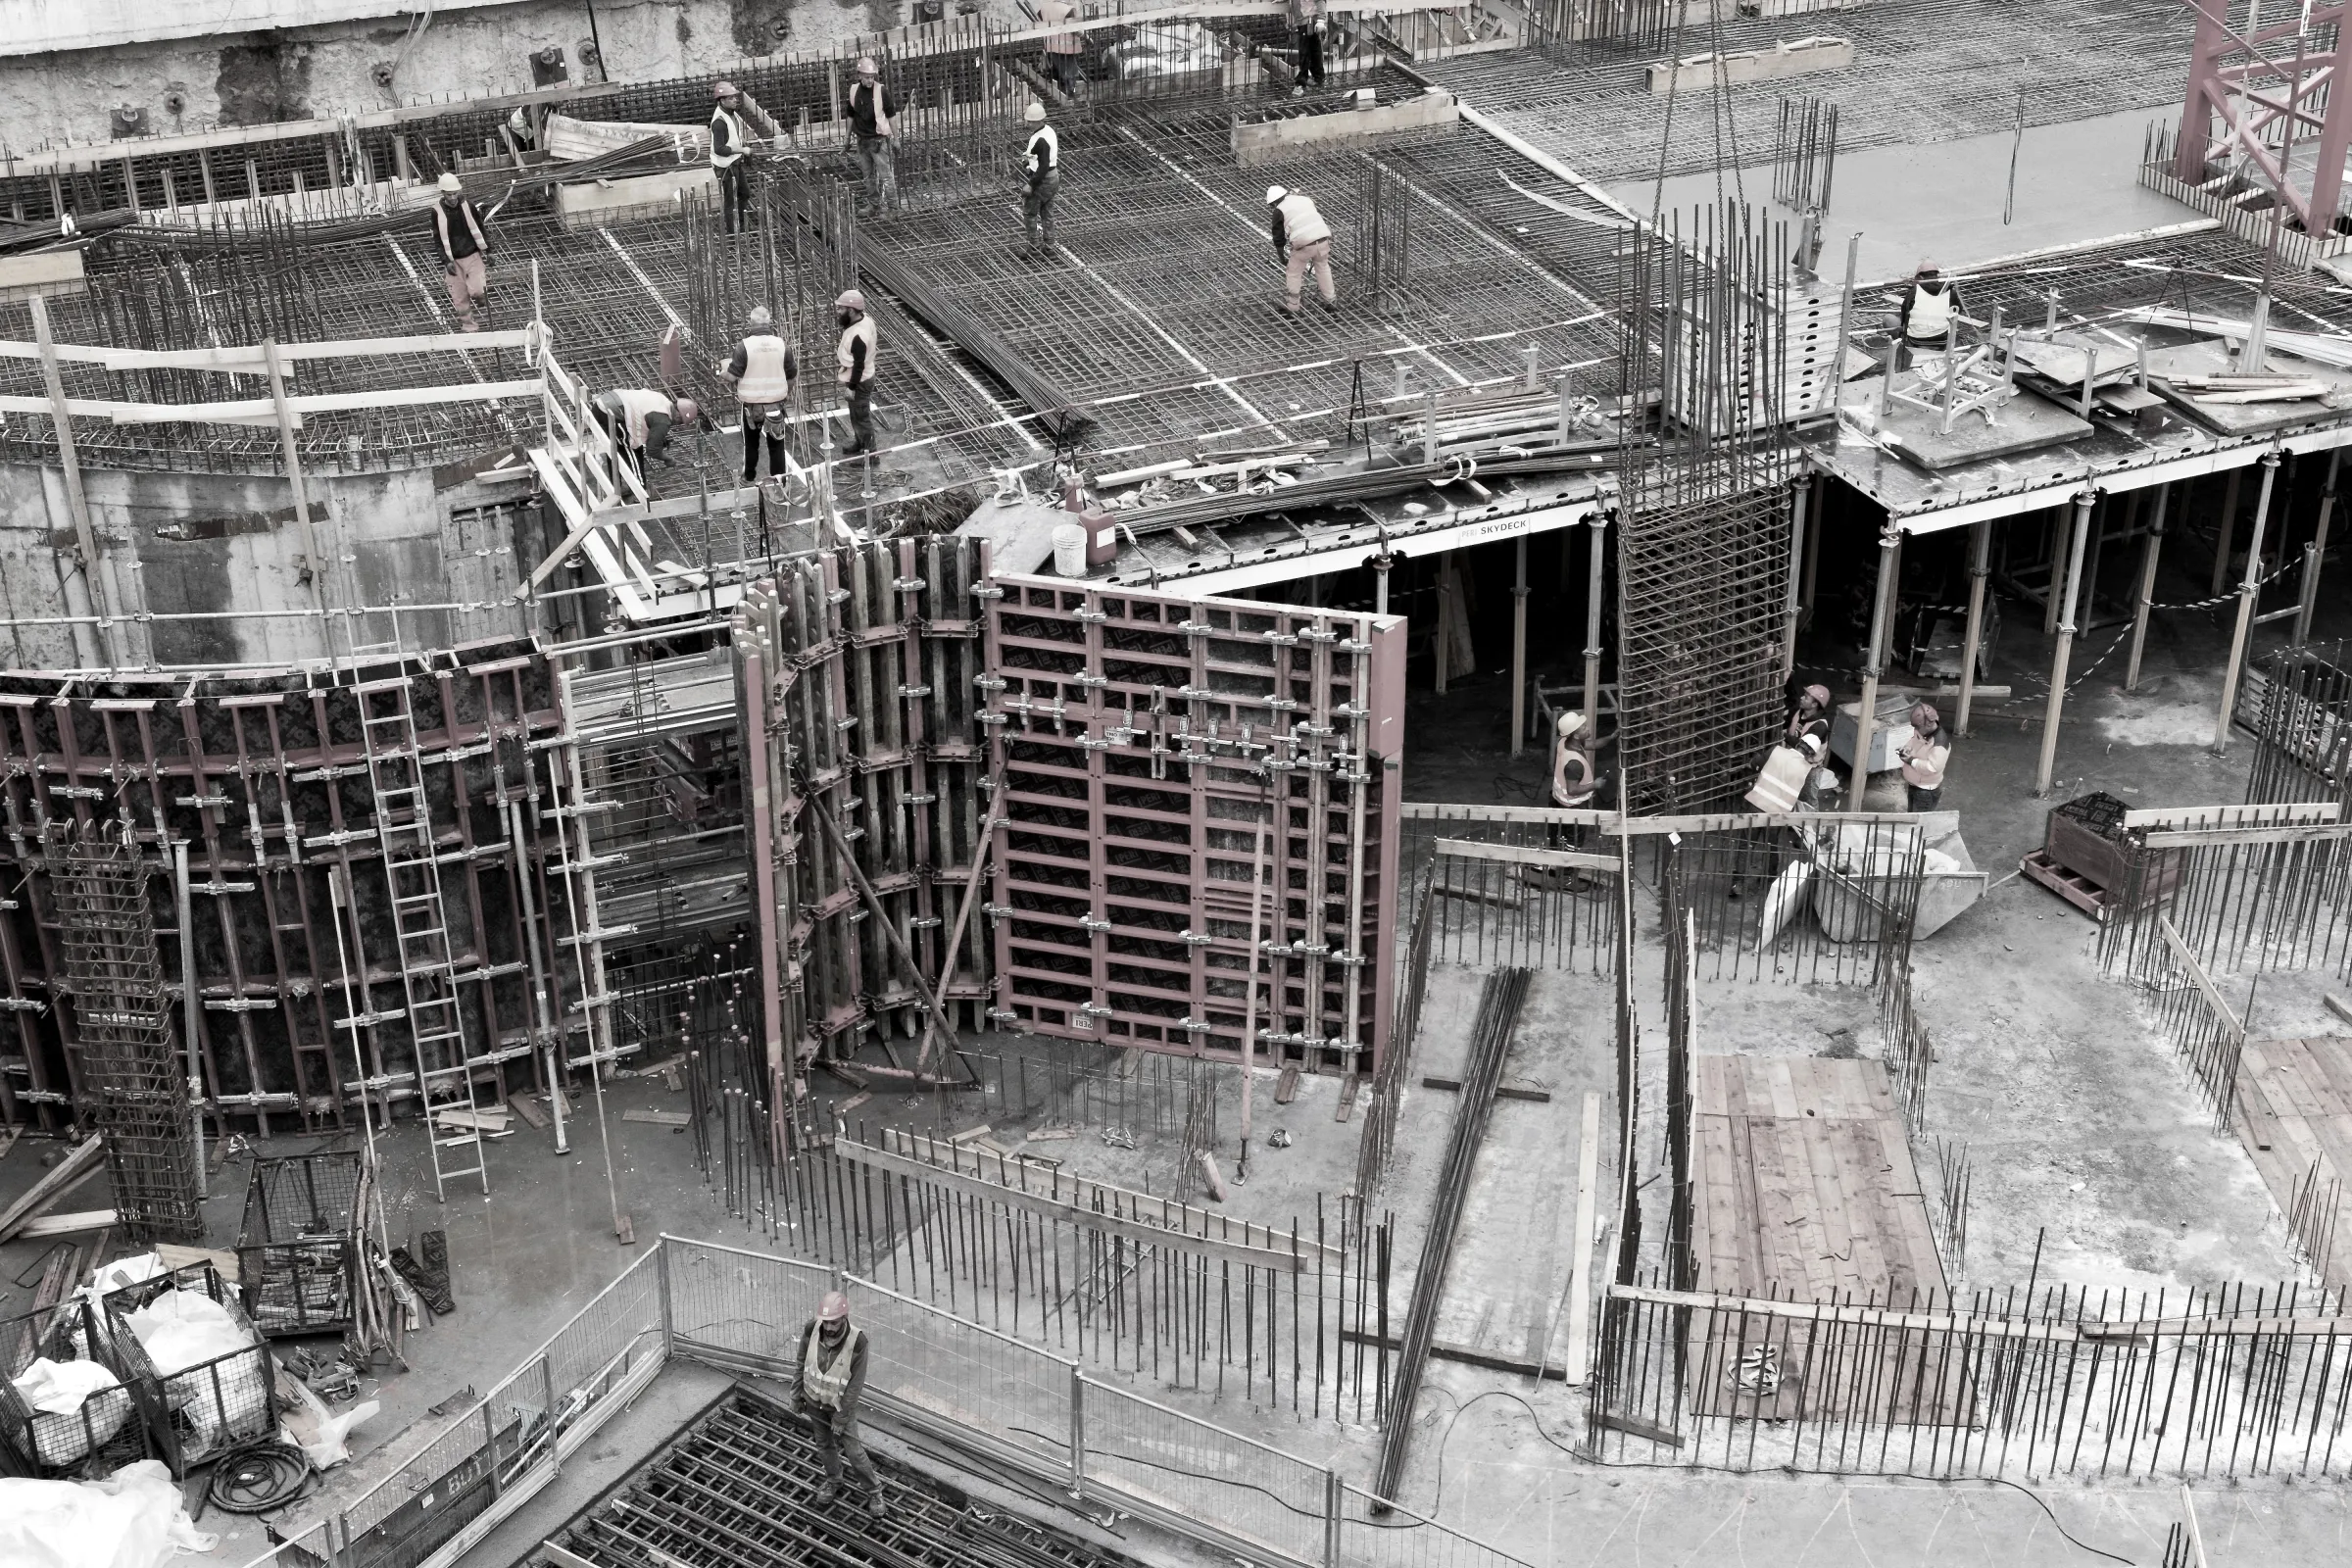
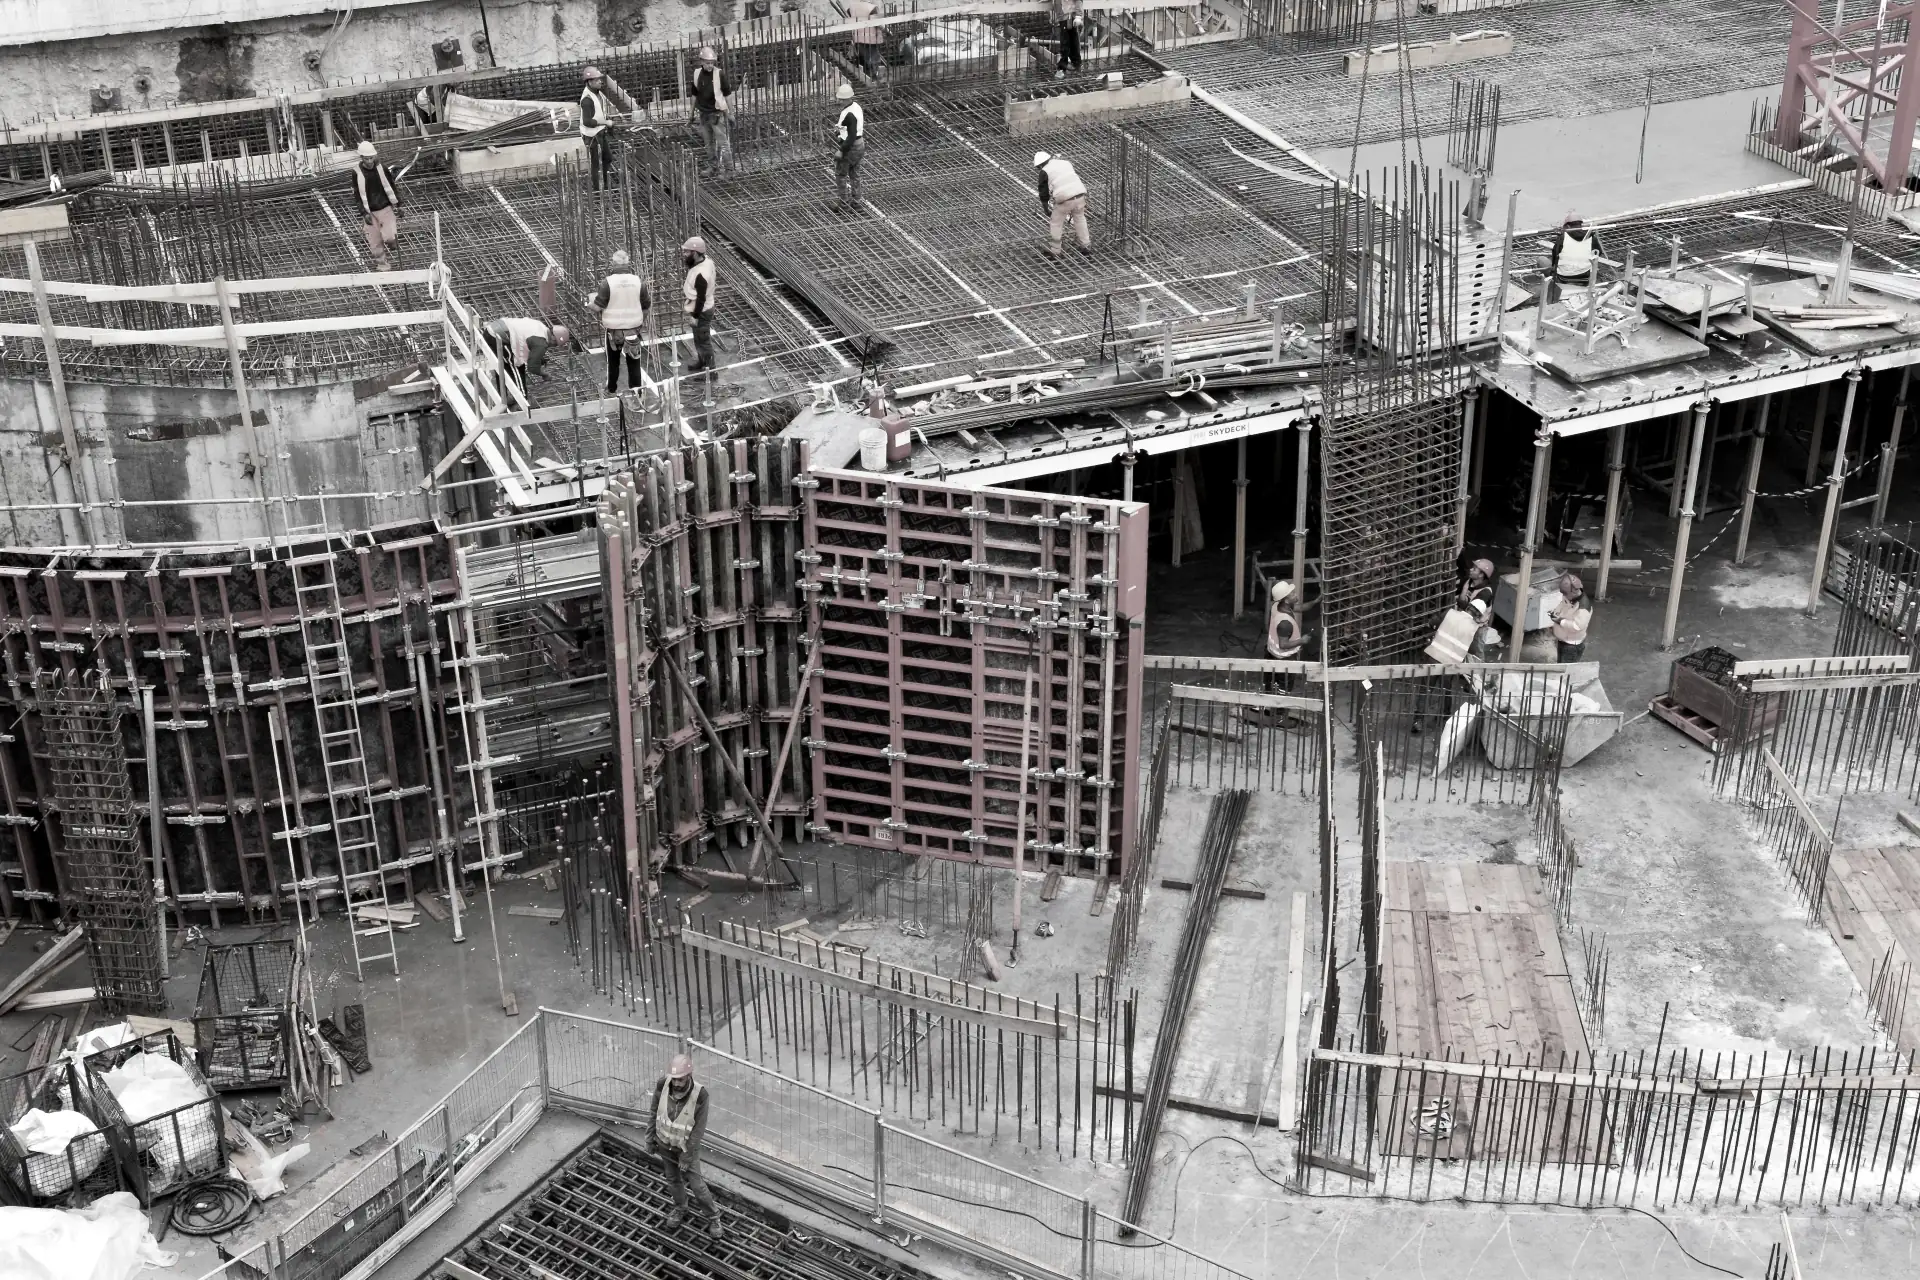
fix: site optimization

diff --git a/src/styles/global.css b/src/styles/global.css
@@ -6,8 +6,8 @@
     --color-rust: #f58559;
     --color-soft-rust: #f58559;
 
-    --font-display: "Newsreader", Georgia, serif;
-    --font-body: "Inter", "Helvetica Neue", Arial, sans-serif;
+    --font-display: Georgia, "Times New Roman", serif;
+    --font-body: Inter, ui-sans-serif, system-ui, -apple-system, BlinkMacSystemFont, "Segoe UI", sans-serif;
 
     --content-width: 1180px;
 
@@ -657,10 +657,16 @@ h3 {
     position: absolute;
     inset: 0;
     z-index: 0;
-    background: linear-gradient(rgba(251, 250, 246, 0.42), rgba(251, 250, 246, 0.52)),
-    url("/approach-background.webp") center center / cover;
+    background: linear-gradient(rgba(251, 250, 246, 0.42), rgba(251, 250, 246, 0.52));
     background-attachment: fixed;
     mix-blend-mode: multiply;
+}
+
+.split-background.is-background-loaded {
+    background-image: linear-gradient(rgba(251, 250, 246, 0.42), rgba(251, 250, 246, 0.52)),
+    url("/approach-background.webp");
+    background-position: center center;
+    background-size: cover;
 }
 
 .split-copy,
@@ -808,9 +814,15 @@ h3 {
     position: absolute;
     inset: 0;
     z-index: 0;
-    background: linear-gradient(rgba(36, 31, 28, 0.28), rgba(36, 31, 28, 0.42)),
-    url("/contact-background.webp") center center / cover;
+    background: linear-gradient(rgba(36, 31, 28, 0.28), rgba(36, 31, 28, 0.42));
     background-attachment: fixed;
+}
+
+.contact-background.is-background-loaded {
+    background-image: linear-gradient(rgba(36, 31, 28, 0.28), rgba(36, 31, 28, 0.42)),
+    url("/contact-background.webp");
+    background-position: center center;
+    background-size: cover;
 }
 
 .contact-grid {